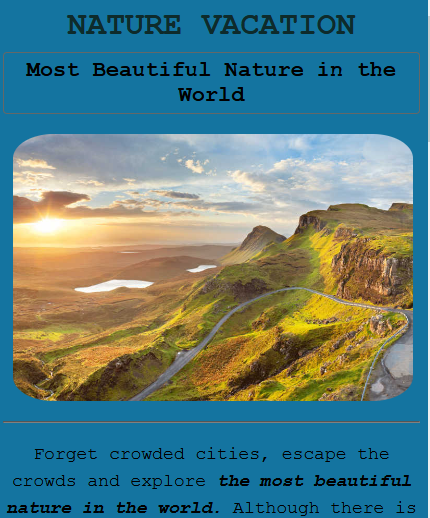
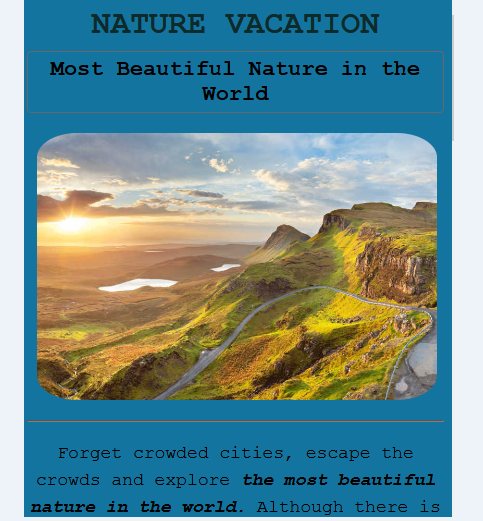
Updated it to be responsive and mobile friendly

diff --git a/index.html b/index.html
@@ -60,13 +60,10 @@
               experience different cultures, see unique landscapes and meet
               people from all walks of life. These experiences have broadened my
               perspective on life by exposing me to diverse perspectives and
-              challenging my preconceived notions about different cultures. Some
-              breath-taking destinations include: The dettifoss
-              waterfall(Iceland), Lake of Plitvice(Croatia), Giant's
-              Causeway(Ireland), The Opal Coast(France), Bardenas Reales(Spain).
-              This site was built with HTML, CSS and JavaScript.
+              challenging my preconceived notions about different cultures. This
+              site was built with HTML, CSS and JavaScript.
             </p>
-            <a href="#" class="btn btn-branding-outline">Explore </a>
+            <a href="#" class="btn btn-branding-outline">Explore more </a>
           </div>
         </div>
       </div>
@@ -75,13 +72,11 @@
           <div class="project-description">
             <h2 class="mb-5">Weather App</h2>
             <p class="mb-5 text-muted">
-              Weather forecast app provides detailed local forecast & weather
-              forecast world wide, the app provides the current temperature in
-              Celsius and Fahrenheit, sunrise and sunset time according to city
-              time zone, minimum and maximum temperature, humidity, wind,
-              precipitation, forcaste for coming days or weeks. HTML, CSS,
-              JavaScript, bootstrap and axios were used to make this weather
-              app.
+              Weather forecast app provides the current temperature in Celsius
+              and Fahrenheit, minimum and maximum temperature, humidity, wind,
+              precipitation, forcaste for coming days or weeks of a selected
+              city. HTML, CSS, JavaScript, bootstrap and axios were used to make
+              this weather app.
             </p>
             <a href="#" class="btn btn-branding-outline">Launch weather App</a>
           </div>
@@ -105,7 +100,7 @@
               instruments, such as the piano, guitar, drums or violin. This was
               the first site that I built using HTML, CSS and JavaScript.
             </p>
-            <a href="#" class="btn-branding-outline">Learn music</a>
+            <a href="#" class="btn btn-branding-outline">Learn music</a>
           </div>
         </div>
       </div>

diff --git a/styles/portfolio.css b/styles/portfolio.css
@@ -8,16 +8,6 @@
 body {
   font-family: var(--default-font-family);
 }
-
-h1 {
-  font-size: 96px;
-}
-p {
-  font-weight: normal;
-  font-size: 16px;
-  line-height: 30px;
-}
-
 h1,
 h2,
 h3,
@@ -27,6 +17,19 @@ h6 {
   color: black;
   font-family: var(--heading-font-family);
   font-weight: bold;
+}
+
+h1 {
+  font-size: 96px;
+  line-height: 1.5;
+}
+h2 {
+  font-size: 64px;
+}
+p {
+  font-weight: normal;
+  font-size: 16px;
+  line-height: 30px;
 }
 
 .hero {
@@ -44,7 +47,7 @@ h6 {
 .hero h2 {
   font-family: var(--heading-font-family);
   font-weight: normal;
-  line-height: 2;
+  line-height: 1.5;
   font-size: 24px;
 }
 .btn-branding {
@@ -63,12 +66,24 @@ h6 {
   line-height: 27px;
   padding: 15px 30px;
 }
+.project-description {
+  padding: 20px 10px;
+}
+
 @media (max-width: 900px) {
+  h1 {
+    font-size: 44px;
+    line-height: 2;
+  }
+
   h2 {
     font-size: 44px;
   }
   .project-description {
     padding: 0;
     text-align: center;
+  }
+  .hero {
+    padding: 80px 20px;
   }
 }
